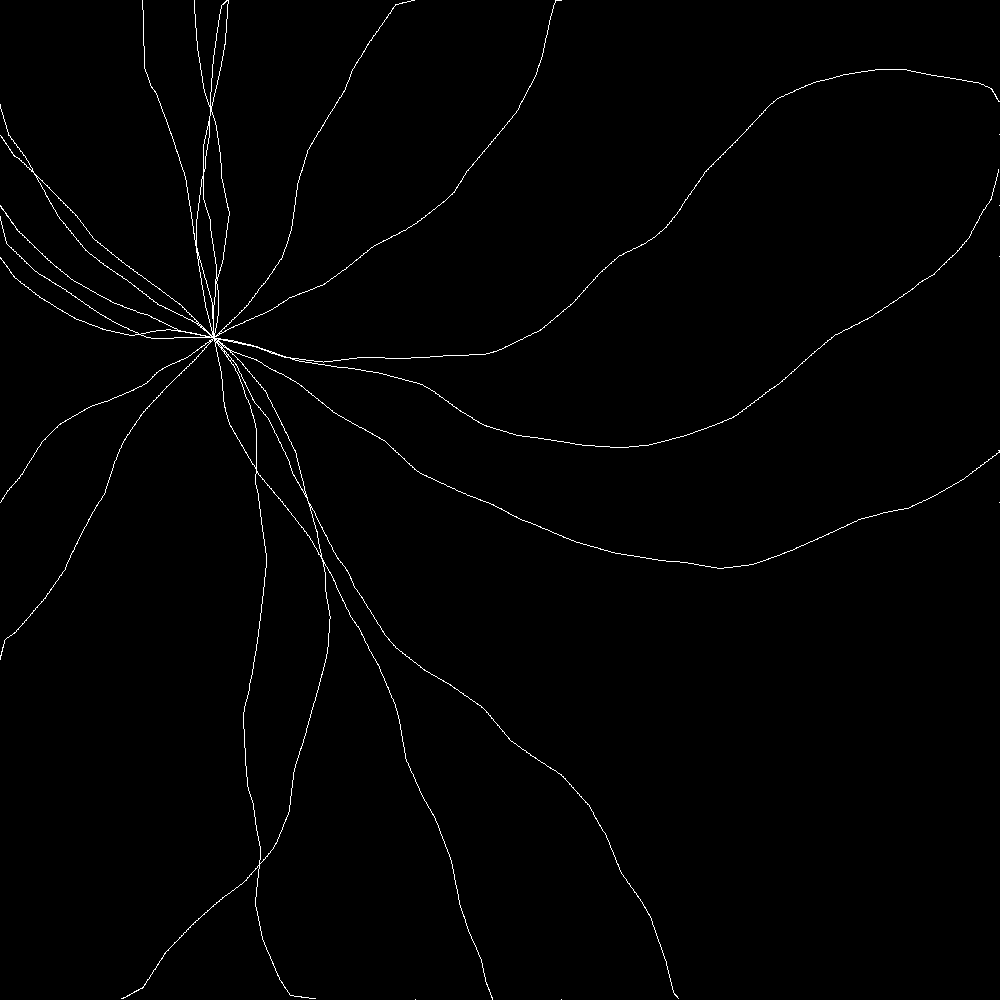
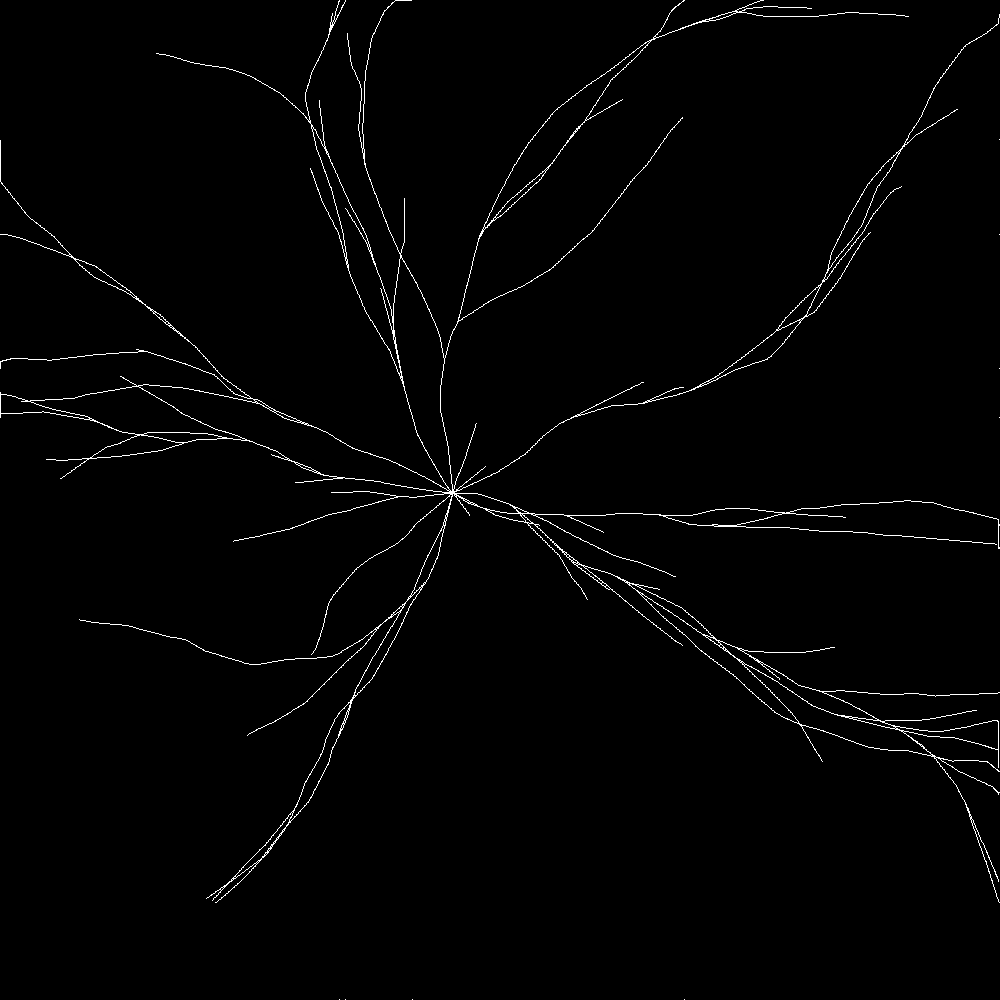
Vessel branching + Tortuousity throughout vessel network

diff --git a/Walker.py b/Walker.py
@@ -2,11 +2,21 @@ import random
 import math
 import numpy as np
 
-from config import ANGLE_LOWER_BOUND, ANGLE_UPPER_BOUND, MOVEMENT_LENGTH_LIMITER, TORTUOUS_MOVEMENT_LENGTH_LIMITER, TORTUOUSITY_AFTER_STEPS, WALKER_CHILD_DEATH_PROBABILITY_MULTIPLIER, WALKER_CHILD_REPRODUCTION_PROBABILITY_MULTIPLIER, WALKER_INITIAL_DEATH_PROBABILITY, WALKER_INITIAL_REPRODUCTION_PROBABILITY, WALKER_MATURITY_STEPS
+from config import ANGLE_LOWER_BOUND, ANGLE_UPPER_BOUND, MOVEMENT_LENGTH_LIMITER, TORTUOUS_MOVEMENT_LENGTH_LIMITER, WALKER_CHILD_DEATH_PROBABILITY_MULTIPLIER, WALKER_CHILD_REPRODUCTION_PROBABILITY_MULTIPLIER, WALKER_INITIAL_DEATH_PROBABILITY, WALKER_INITIAL_REPRODUCTION_PROBABILITY, WALKER_MATURITY_STEPS
 from util import bound, rotate_vector
 
 class Walker:
-    def __init__(self, grid, grid_size, tortuousity_probability, reproduction_probability, death_probability, initial_point = None, initial_direction = None):
+    def __init__(
+            self, 
+            grid,
+            grid_size, 
+            tortuous, 
+            tortuousity_probability, 
+            reproduction_probability, 
+            death_probability, 
+            initial_point = None, 
+            initial_direction = None
+        ):
         # Choose a random position on the SIZE x SIZE grid
         if initial_point is None:
             self.x = random.randint(0, grid_size - 1)
@@ -37,7 +47,7 @@ class Walker:
         # Determine whether the walker has reached an edge
         self.dead = False
 
-        self.tortuous = False
+        self.tortuous = tortuous
         self.tortuous_points = []
 
         self.children = []
@@ -51,36 +61,10 @@ class Walker:
 
         # Make a large turn based on the TURN_PROBABILITY
         tortuous_turn = random.random() <= self.tortuousity_probability and \
-                        len(self.points) >= TORTUOUSITY_AFTER_STEPS
+                        self.tortuous
 
-        if tortuous_turn and not self.tortuous: # Only one tortuous turn per walker max
-            tortuous_points = [(self.x, self.y)]
-            self.make_move(
-                self.get_random_large_angle(),
-                self.get_random_small_movement_length()
-            )
-            tortuous_points.append((self.x, self.y))
-
-            if self.dead:
-                return True
-            
-            self.make_move(
-                self.get_random_large_angle(),
-                self.get_random_small_movement_length()
-            )
-            tortuous_points.append((self.x, self.y))
-
-            if self.dead:
-                return True
-            
-            self.make_move(
-                self.get_random_large_angle(),
-                self.get_random_small_movement_length()
-            )
-            tortuous_points.append((self.x, self.y))
-
-            self.tortuous = True
-            self.tortuous_points += tortuous_points
+        if tortuous_turn:
+            self.make_tortuous_move()
         else:
             self.make_move(
                 self.get_random_small_angle(),
@@ -110,6 +94,7 @@ class Walker:
                 Walker(
                     self.grid, 
                     self.grid_size, 
+                    self.tortuous,
                     self.tortuousity_probability, 
                     self.reproduction_probability * WALKER_CHILD_REPRODUCTION_PROBABILITY_MULTIPLIER, # Child is twice as likely to die
                     min(self.death_probability * WALKER_CHILD_DEATH_PROBABILITY_MULTIPLIER, 1.0), # Child is twice as likely to die
@@ -141,6 +126,46 @@ class Walker:
         self.points.append((self.x, self.y))
         self.turn_angles.append(turn_angle)
         self.check_bounds_and_die()
+
+    def make_tortuous_move(self):
+        final_turn_angle = self.get_random_small_angle() # After the tortuous turn, come back to this angle
+
+        total_angle_turned = 0
+        tortuous_points = [(self.x, self.y)]
+
+        turn_angle = self.get_random_large_angle()
+        self.make_move(
+            turn_angle, 
+            self.get_random_small_movement_length()
+        )
+        total_angle_turned += turn_angle
+        tortuous_points.append((self.x, self.y))
+        if self.dead:
+            return
+        
+        turn_angle = self.get_random_large_angle()
+        self.make_move(
+            turn_angle, 
+            self.get_random_small_movement_length()
+        )
+        total_angle_turned += turn_angle
+        tortuous_points.append((self.x, self.y))
+        if self.dead:
+            return
+        
+        # Make a corrective turn to get back to the original angle
+        self.make_move(
+            final_turn_angle - total_angle_turned, 
+            self.get_random_small_movement_length()
+        )
+        tortuous_points.append((self.x, self.y))
+        if self.dead:
+            return
+        
+        self.tortuous_points.append(tortuous_points)
+
+    def get_tortuous_points(self):
+        return self.tortuous_points + sum([child.get_tortuous_points() for child in self.children], [])
 
     def get_random_movement_length(self):
         dist = 0

diff --git a/main.py b/main.py
@@ -2,15 +2,19 @@ from PIL import Image
 import numpy as np
 import math
 import pandas as pd
+import random
 import os
 import time
 import tqdm
 
 from Walker import Walker
 from util import generate_centered_point, bound, rotate_vector
-from config import GRID_SIZE, NUM_WALKERS, TORTUOUSITY_PROBABILITY, WALKER_INITIAL_DEATH_PROBABILITY, WALKER_INITIAL_REPRODUCTION_PROBABILITY
+from config import GRID_SIZE, NUM_WALKERS, TORTUOUS_WALKERS, TORTUOUSITY_PROBABILITY, WALKER_INITIAL_DEATH_PROBABILITY, WALKER_INITIAL_REPRODUCTION_PROBABILITY
 
 def generate_image(draw_bounding_box=False):
+
+    tortuous_image = random.random() < 0.5 # 50% chance of generating a tortuous image
+
     img = [[[0, 0, 0] for _ in range(GRID_SIZE)] for _ in range(GRID_SIZE)]
 
     # Spawn walkers somewhere in the middle of the image
@@ -20,6 +24,7 @@ def generate_image(draw_bounding_box=False):
             Walker(
                 img, 
                 GRID_SIZE, 
+                (random.random() <= TORTUOUS_WALKERS) and tortuous_image, # if tortuous image, 50% of all walkers follow tortuous path
                 TORTUOUSITY_PROBABILITY, 
                 WALKER_INITIAL_REPRODUCTION_PROBABILITY,
                 WALKER_INITIAL_DEATH_PROBABILITY,
@@ -43,7 +48,7 @@ def generate_image(draw_bounding_box=False):
     for w in walkers:
         tortuous |= w.tortuous
         if w.tortuous:
-            tortuous_points.append(w.tortuous_points)
+            tortuous_points += w.get_tortuous_points()
 
     if draw_bounding_box:
         # Mark the tortuous points red
@@ -72,10 +77,6 @@ def generate_image(draw_bounding_box=False):
 
     return img, tortuous
 
-# img, is_tortuous = generate_image(draw_bounding_box=True)
-# img.save("sample.png")
-# print(f"Tortuosity: {is_tortuous}")
-
 os.makedirs("images/tortuous", exist_ok=True)
 os.makedirs("images/non_tortuous", exist_ok=True)
 
@@ -88,7 +89,7 @@ files = {}
 
 tqdm_meter = tqdm.tqdm(total=NUM_IMAGES_PER_CLASS * 2)
 while num_images < NUM_IMAGES_PER_CLASS * 2:
-    img, is_tortuous = generate_image(True)
+    img, is_tortuous = generate_image()
     if is_tortuous:
         if num_tortuous >= NUM_IMAGES_PER_CLASS:
             continue

diff --git a/config.py b/config.py
@@ -2,17 +2,17 @@
 GRID_SIZE = 1000
 
 # Tortuosity configuration
-TORTUOUSITY_PROBABILITY = 0.01
-TORTUOUSITY_AFTER_STEPS = 5 # Tortuousity is only allowed after this many steps, otherwise gets hidden in the dense central region
+TORTUOUSITY_PROBABILITY = 0.1
 ANGLE_LOWER_BOUND = 15
-ANGLE_UPPER_BOUND = 135
+ANGLE_UPPER_BOUND = 90
 TORTUOUS_MOVEMENT_LENGTH_LIMITER = 0.3 # applied over the MOVEMENT_LENGTH_LIMITER to get small jagged movements
 
 # Walker configuration
-NUM_WALKERS = 20
+MOVEMENT_LENGTH_LIMITER = 0.05 # percentage of grid size per step maximum allowed
+NUM_WALKERS = 15
 WALKER_MATURITY_STEPS = 5
-WALKER_INITIAL_REPRODUCTION_PROBABILITY = 0.4
+TORTUOUS_WALKERS = 0.7 # percentage of walkers that are tortuous
+WALKER_INITIAL_REPRODUCTION_PROBABILITY = 0.3
 WALKER_CHILD_REPRODUCTION_PROBABILITY_MULTIPLIER = 0.1
 WALKER_INITIAL_DEATH_PROBABILITY = 0.05
 WALKER_CHILD_DEATH_PROBABILITY_MULTIPLIER = 2
-MOVEMENT_LENGTH_LIMITER = 0.05 # percentage of grid size per step maximum allowed

diff --git a/README.md b/README.md
@@ -1,25 +1,41 @@
 # Dataset Generator - mimics Tortuousity in Retinal Blood Vessels
 
-`Walker`s randomly choose and follow a path from the start point until they hit the edge of the grid. They make a tortuous movement randomly with a small probability. 
+`Walker`s randomly choose and follow a path from the start point. They die when they hit the edge of the grid or sometimes randomly (based on a death probability). Each `Walker` can reproduce to create a child to produce the branching effect.
+
+A `Walker` is set to be either tortuous or non-tortuous when created. If tortuous, they make a tortuous movement randomly (based on a tortuousity probability). The children inherity the tortuousity of their parent.
+
+By default, in a tortuous image, half of the `Walker`s are set to be tortuous. This can be changed in the `config.py` file.
 
 The grid size (image size), the number of `Walker`s, the tortuousity probability and a few other parameters can be set in the `config.py` file.
 
 ## Sample Generated Images:
 
 ### Tortuous:
+#### Tortuous Retinal Blood Vessels:
+![Tortuous Eye](sample/tortuous_eye.png)
+#### Tortuous Sample Generated:
 ![Tortuous](sample/tortuous.png)
 
 ### Non-Tortuous:
+#### Non-Tortuous Retinal Blood Vessels:
+![Non-Tortuous Eye](sample/non_tortuous_eye.png)
+#### Non-Tortuous Sample Generated:
 ![Non-Tortuous](sample/non_tortuous.png)
 
 ## Config Parameters:
-1. `GRID_SIZE`: Size of the grid (image) in pixels
-2. `TORTUOUSITY_PROBABILITY`: Probability of a `Walker` making a tortuous movement (recommended: 0.001)
-3. `ANGLE_LOWER_BOUND`: Lower bound of the angle of the tortuous movement (recommended: 15)
-4. `ANGLE_UPPER_BOUND`: Upper bound of the angle of the tortuous movement (recommended: 135)
-5. `NUM_WALKERS`: Number of `Walker`s to be generated
-6. `MOVEMENT_LENGTH_LIMITER`: Limit the length of a single step of a `Walker`. As a percentage of the total grid size (recommended: 0.05)
-7. `TORTUOUS_MOVEMENT_LENGTH_LIMITER`: Limit the length of a single step of a `Walker` when it is making a tortuous movement. Applied over `MOVEMENT_LENGTH_LIMIER` (recommended: 0.5)
+1. `GRID_SIZE`: Size of the grid (image) in pixels.
+2. `TORTUOUSITY_PROBABILITY`: Probability of a `Walker` making a tortuous movement. (recommended: 0.1)
+3. `ANGLE_LOWER_BOUND`: Lower bound of the angle of the tortuous movement. (recommended: 15)
+4. `ANGLE_UPPER_BOUND`: Upper bound of the angle of the tortuous movement. (recommended: 90)
+5. `MOVEMENT_LENGTH_LIMITER`: Limit the length of a single step of a `Walker`. As a percentage of the total grid size. (recommended: 0.05)
+6. `TORTUOUS_MOVEMENT_LENGTH_LIMITER`: Limit the length of a single step of a `Walker` when it is making a tortuous movement. Applied over `MOVEMENT_LENGTH_LIMIER`. (recommended: 0.3)
+7. `NUM_WALKERS`: Number of `Walker`s to be generated.
+8. `WALKER_MATURITY_STEPS`: Number of steps a `Walker` has to take before it can reproduce. To prevent too many branches in the center.
+9. `TURTUOUS_WALKERS`: Ratio of `Walker`s to be set as tortuous in a tortuous image. (recommended: 0.7)
+10. `WALKER_INITIAL_REPRODUCTION_PROBABILITY`: Probability of a `Walker` reproducing when it is mature. (recommended: 0.3)
+11. `WALKER_CHILD_REPRODUCTION_PROBABILITY_MULTIPLIER`: Multiplier for the reproduction probability of a `Walker`'s child. Should be decreasing to avoid population boom. (recommended: 0.1 (child 10 times less likely to reproduce))
+12. `WALKER_INITIAL_DEATH_PROBABILITY`: Probability of a `Walker` dying when it is mature. (recommended: 0.05)
+13. `WALKER_CHILD_DEATH_PROBABILITY_MULTIPLIER`: Multiplier for the death probability of a `Walker`'s child. Should be increasing to avoid population boom. (recommended: 2 (child twice as likely to die))
 
 ## How to use:
 Code in `main.py` helps generate a dataset of images. The images are stored in a folder along with a csv file with filenames and tortuousity labels.
